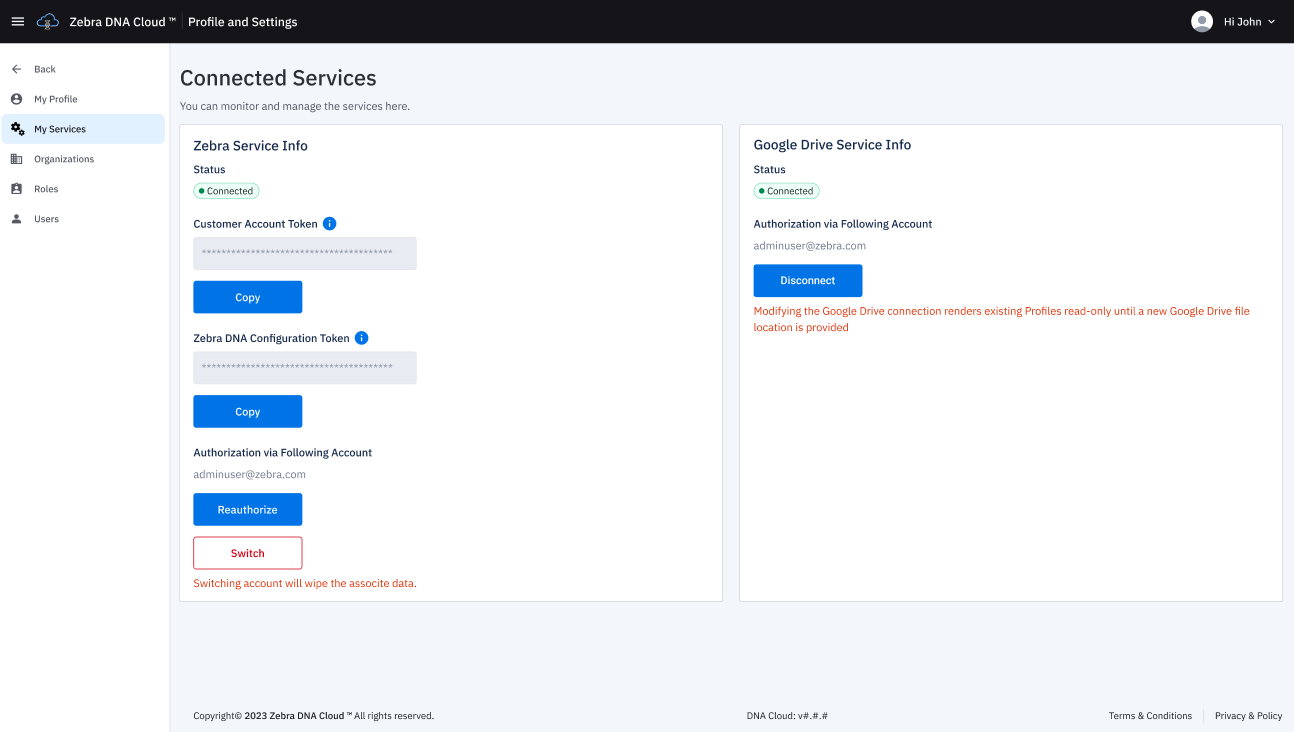
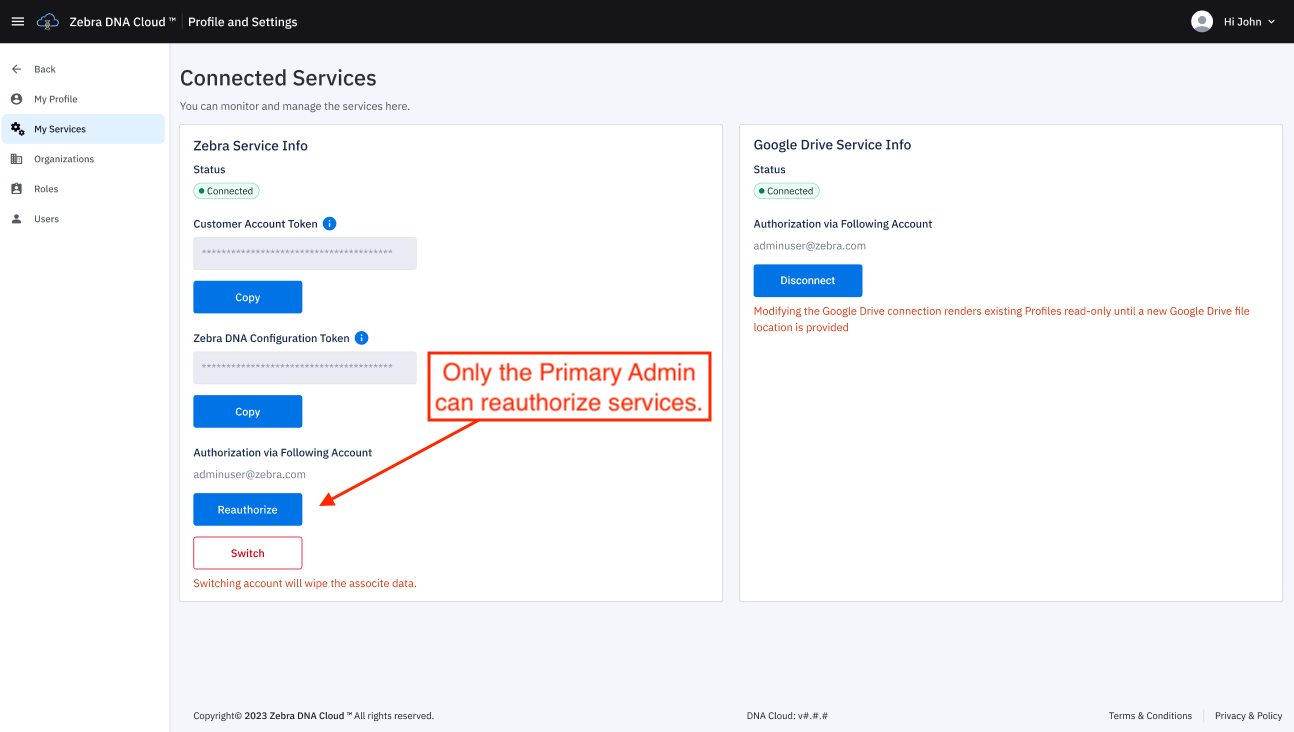
[DLM-36411; DLM-36268] ZDNA 4.0 updates, per eng

diff --git a/zebradna/4-0/setup/index.html b/zebradna/4-0/setup/index.html
@@ -478,13 +478,13 @@ If wildcards are not supported or desired, add the following domain names to the
 
 <h2 id="iiimanageusersroles" class="anchor"><a class="heading-anchor" href="#iiimanageusersroles"><span></span></a>III. Manage Users, Roles</h2>
 
-<p>The Admin (<em>formerly Tenant Owner</em>) creates Users in the ZDNA system <strong><u>using email addresses registered using <a href="#iiregisterwithzebracom">the process above</a></u></strong>. Admins can perform all tasks within the system and <a href="#cresteroles">create Roles</a> as needed to limit user access to specific ZDNA features. </p>
+<p>The Primary Admin (<em>formerly Tenant Owner</em>) creates Users in the ZDNA system <strong><u>using email addresses registered using <a href="#iiregisterwithzebracom">the process above</a></u></strong>. Admins can perform all tasks within the system and <a href="#cresteroles">create Roles</a> as needed to limit user access to specific ZDNA features. </p>
 
 <hr>
 
 <h3 id="createusers" class="anchor"><a class="heading-anchor" href="#createusers"><span></span></a>Create Users</h3>
 
-<p><strong>If creating Administrative Users and/or connected services (i.e. Google Drive) is NOT required at this time</strong>, <a href="#ivnewdevicesetup">skip to Step IV</a> to begin enrolling devices. </p>
+<p><strong>If creating Users, Roles and/or connected services (i.e. Google Drive) is NOT required at this time</strong>, <a href="#ivnewdevicesetup">skip to Step IV</a> to begin enrolling devices. </p>
 
 <h4 id="tocreateauser" class="anchor"><a class="heading-anchor" href="#tocreateauser"><span></span></a>To Create a User:</h4>
 
@@ -502,15 +502,15 @@ If wildcards are not supported or desired, add the following domain names to the
 
 <hr>
 
-<p>3. In All Users screen, <strong>click "New User"</strong>: 
-<img alt="image" style="height:250px" src="user_admin_01a.png">
+<p>3. In All Users screen, <strong>click "Add User"</strong>: 
+<img alt="image" style="height:250px" src="40_users_screen_addUser.jpg">
 <em>Click image to enlarge; ESC to exit.</em>
 <br></p>
 
 <hr>
 
-<p><strong>4. Enter the user's email address and click "Add"</strong> to send a DNA Cloud enrollment invitation:
-<img alt="image" style="height:250px" src="user_admin_02.png">
+<p><strong>4. Enter the user's Role (required) and email address. Then click "Add"</strong> to send a DNA Cloud enrollment invitation:
+<img alt="image" style="height:250px" src="40_add_user.jpg">
 <em>Click image to enlarge; ESC to exit.</em>
 <br></p>
 
@@ -518,8 +518,13 @@ If wildcards are not supported or desired, add the following domain names to the
 
 <hr>
 
-<p>5. Prior to enrolling, <strong>newly invited users appear as "invited" the All Users list</strong>: <br>
-<img alt="image" style="height:350px" src="27_unicode_users.jpg">
+<p>5. Prior to enrolling, <strong>newly invited users appear as "invited" the list of Users</strong> (as seen in the image below).<br>
+&nbsp;&nbsp;&nbsp; <i class="fa fa-exclamation-triangle" style="color:#FFA500;"></i> <strong>User Name Notes</strong><br>
+&nbsp;&nbsp;&nbsp; User names appear automatically for invited users already registered with Zebra.com.<br>
+&nbsp;&nbsp;&nbsp; Names of unregistered invitees appear as "Invited User" until they register (required).<br>
+&nbsp;&nbsp;&nbsp; To edit a user name, click the <i class="fa fa-pencil" aria-hidden="true"></i> icon. <br>
+&nbsp;&nbsp;&nbsp; User name fields accept alphanumeric, Unicode and some special characters. 
+<img alt="image" style="height:350px" src="40_users_screen_invited.jpg">
 <em>Click image to enlarge; ESC to exit.</em>
 <br></p>
 
@@ -602,11 +607,15 @@ If wildcards are not supported or desired, add the following domain names to the
 
 <li><strong>Users can view their assigned Role</strong> on their User Profile page. </li>
 
-<li><strong>The Admin has full access to all areas and features</strong>; this Role cannot be changed or deleted.</li>
+<li><strong>The Primary "Admin" (formerly Tenant Owner, displayed above as "Admin") has full access to all areas and features</strong>; this Role cannot be changed or deleted.</li>
 
-<li><strong>Only the Admin can create additional users with the Admin-level permissions</strong>. </li>
+<li><strong>The "Manager" Role cannot be deleted</strong>, but its permissions can be edited.</li>
 
-<li><strong>The Roles section is accessible ONLY by the Admin</strong> and users with the Admin Role. </li>
+<li><strong>Only an Admin can create additional users with Admin-level permissions</strong>. </li>
+
+<li><strong>The Roles section is accessible ONLY by the Admin</strong> and users assigned the Admin Role. </li>
+
+<li><strong>Only the Primary Admin can reauthorize services</strong>.</li>
 </ul>
 
 <h4 id="tocreatearole" class="anchor"><a class="heading-anchor" href="#tocreatearole"><span></span></a>To Create a Role:</h4>
@@ -667,15 +676,17 @@ If wildcards are not supported or desired, add the following domain names to the
 
 <hr>
 
-<p>2. <strong>With the Role to delete highlighted, click the "Delete Role" button</strong>: 
+<p>2. <strong>With the unwanted Role highlighted, click the "Delete Role" button</strong>: 
 <img alt="image" style="height:250px" src="40_role_delete.jpg">
 <em>Click image to enlarge; ESC to exit.</em>
 <br></p>
 
 <hr>
 
-<p>3. <strong>Check "Confirm" and "Delete"</strong> to complete the operation: 
-<img alt="image" style="height:250px" src="40_delete_warning.jpg">
+<p>3. A warning appears, similar to the image below.<br> 
+&nbsp;&nbsp;&nbsp;<strong>To delete the selected Role</strong>: Check "Confirm" and click "Delete"<br>
+&nbsp;&nbsp;&nbsp;<strong>To cancel</strong>: Click outside the message box
+<img alt="image" style="height:200px" src="40_delete_warning.jpg">
 <em>Click image to enlarge; ESC to exit.</em>
 <br></p>
 
@@ -934,7 +945,7 @@ This enrolls the device in ZDNA and activates LifeGuard services. </p></li>
 
 <h2 id="dnacloudsso" class="anchor"><a class="heading-anchor" href="#dnacloudsso"><span></span></a>DNA Cloud SSO</h2>
 
-<p><strong>Zebra DNA Cloud now employs a single sign-on (SSO) for logging into the console</strong>, streamlining the process and eliminating separate log-ins for Admins (formerly Tenant Owners) and Managers (formerly Administrative Users). To log in using the dialog seen below, all users are required to register an email address with <a href="http://www.zebra.com">Zebra.com</a>. It can be the address they're currently using to access DNA Cloud or a new one. The process<i>*</i> is detailed below, and is the same for a new or existing address. <i class="fa fa-exclamation-triangle" style="color:#FFA500;"></i> This process is NOT required for users with an email address already registered with Zebra.com. </p>
+<p><strong>Zebra DNA Cloud now employs a single sign-on (SSO) for logging into the console</strong>, streamlining the process and eliminating separate log-ins for the Admin (formerly Tenant Owner) and Managers (formerly Administrative Users). To log in using the dialog seen below, all users are required to register an email address with <a href="http://www.zebra.com">Zebra.com</a>. It can be the address they're currently using to access DNA Cloud or a new one. The process<i>*</i> is detailed below, and is the same for a new or existing address. <i class="fa fa-exclamation-triangle" style="color:#FFA500;"></i> This process is NOT required for users with an email address already registered with Zebra.com. </p>
 
 <p><img alt="image" style="height:250px" src="314_dna_login.jpg">
 <em>DNA Cloud SSO login screen. Click image to enlarge; ESC to exit.</em>
@@ -991,7 +1002,7 @@ Open the email's inbox and look for a confirmation email from "Zebra Service Do 
 
 <h3 id="authorization" class="anchor"><a class="heading-anchor" href="#authorization"><span></span></a>Authorization</h3>
 
-<p><strong><u>For Admins (formerly Tenant Owners) only</u>:</strong> When first logging into DNA Cloud following the registration process above, the Admin is prompted with a screen (as shown below) to complete a simple three-step process: </p>
+<p><strong><u>For the Admin (formerly Tenant Owner) only</u>:</strong> When first logging into DNA Cloud following the registration process above, the Admin is prompted with a screen (as shown below) to complete a simple three-step process: </p>
 
 <p><img alt="image" style="height:350px" src="314_auth_01.jpg">
 <em>Click image to enlarge; ESC to exit.</em></p>
@@ -1013,7 +1024,7 @@ Open the email's inbox and look for a confirmation email from "Zebra Service Do 
 <ul>
 <li>If authorization fails or a prompt is dismissed prematurely, the process repeats at subsequent logins until successful.</li>
 
-<li>Authorization also can be completed on the <a href="#myservices">My Services</a> page.</li>
+<li>After dismissing the prompt, authorization also can be completed on the <a href="#myservices">My Services</a> page.</li>
 
 <li>Device Settings, Licensing and Android Updates features appear "greyed out" on unauthorized systems. </li>
 

diff --git a/zebradna/4-0/about/index.html b/zebradna/4-0/about/index.html
@@ -263,11 +263,13 @@ or maybe link to III Create Users /#iiimanageusers
 <ul>
 <li>Now supports User Roles, with customizable access to specific DNA Cloud features. <strong><a href="../setup/#createroles">Learn More</a></strong>. </li>
 
-<li><strong>Title changes in ZDNA 4.0</strong>:
+<li><strong>User Roles in ZDNA 4.0</strong>:
 
 
 <ul>
-<li><strong>Admin</strong> (formerly Tenant Owner) </li>
+<li><strong>Primary Admin</strong> (formerly Tenant Owner) </li>
+
+<li><strong>Admin</strong> (nearly equivalent to Primary Admin)</li>
 
 <li><strong>Manager</strong> (formerly Administrative User)</li></ul>
 </li>
